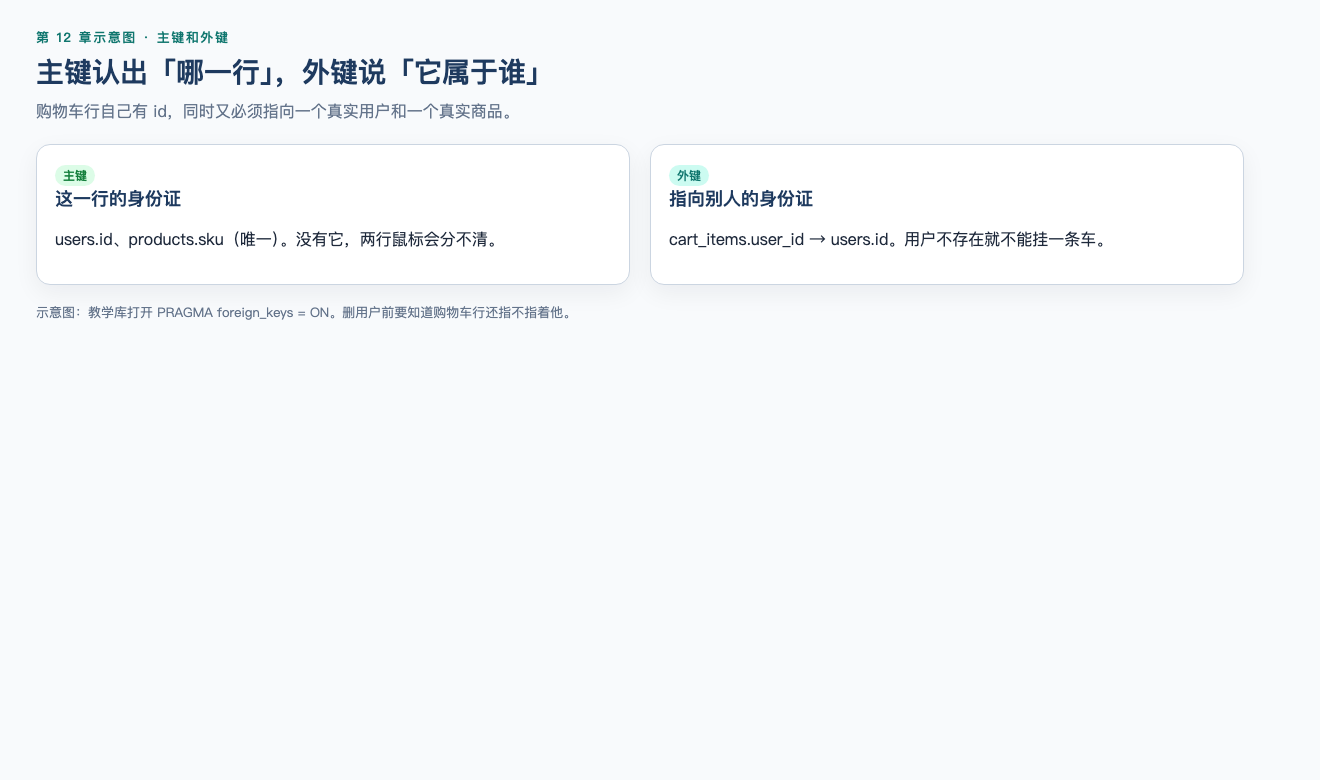
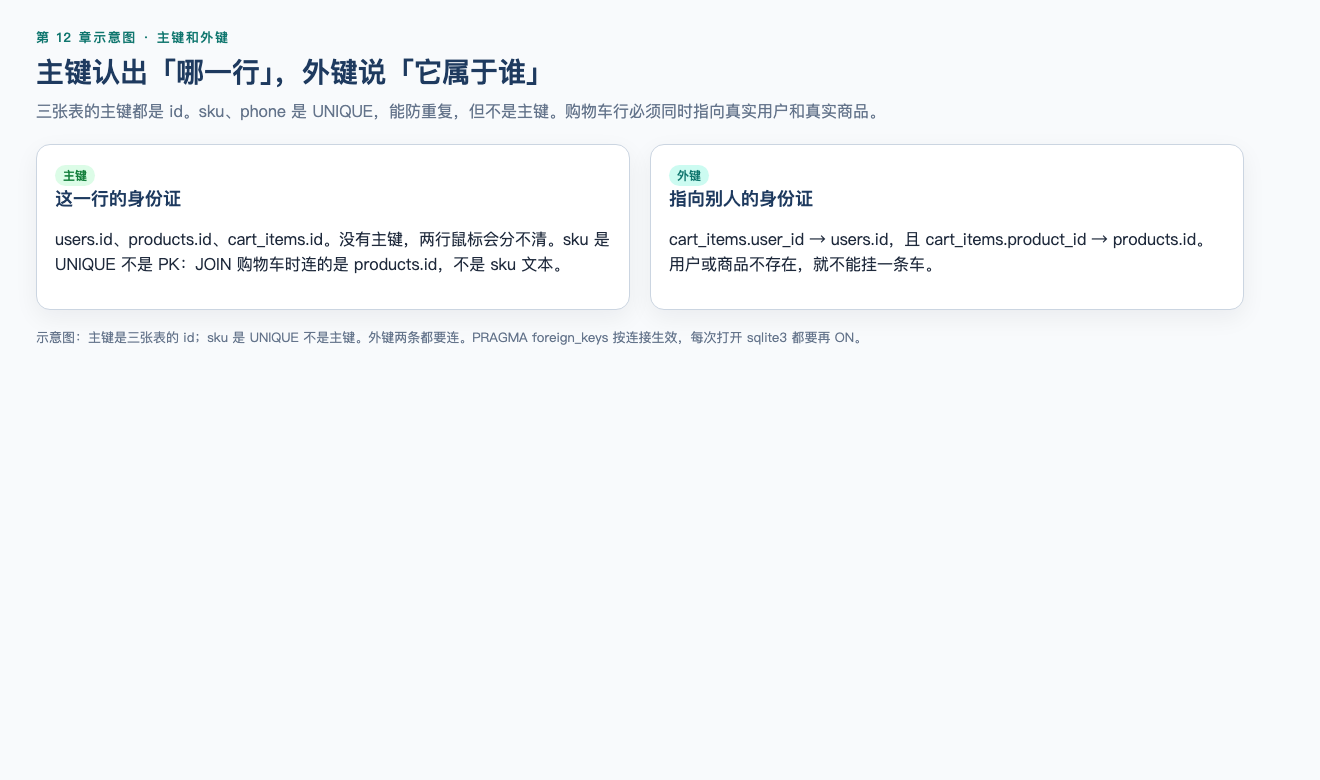
fix(ch12): teaching-db diagrams, sqlite3 entry, PRAGMA scope
PK is products.id not sku. INSERT headphone lives in a transaction.
foreign_keys is per connection and must be re-enabled.

Changed region(s): [[0.0311, 0.2769, 0.6523, 0.4615], [0.497, 0.2769, 0.9008, 0.3692], [0.0311, 0.1231, 0.6523, 0.1538]]

diff --git a/chapters/assets/diagrams/ch12-tables.html b/chapters/assets/diagrams/ch12-tables.html
@@ -4,44 +4,58 @@
   <meta charset="utf-8">
   <link rel="stylesheet" href="_theme.css">
   <style>
-    table { width:100%; border-collapse: collapse; font-size:14px; }
-    th { text-align:left; background:#e2e8f0; padding:6px 8px; }
-    td { border-top:1px solid var(--line); padding:6px 8px; font-family:ui-monospace,Menlo,monospace; }
+    table { width:100%; border-collapse: collapse; font-size:13px; }
+    th { text-align:left; background:#e2e8f0; padding:5px 7px; }
+    td { border-top:1px solid var(--line); padding:5px 7px; font-family:ui-monospace,Menlo,monospace; }
+    .null { color: var(--amber); font-weight: 600; }
+    .callout {
+      margin-top: 12px;
+      background: var(--amber-soft);
+      color: var(--amber);
+      border-radius: 10px;
+      padding: 10px 12px;
+      font-size: 14px;
+      line-height: 1.5;
+    }
   </style>
 </head>
 <body>
 <div class="page">
-  <p class="kicker">第 12 章示意图 · 页面上的一行，库里可能是三张表拼出来的</p>
+  <p class="kicker">第 12 章示意图 · 12.4 教学库（不是 MiniShop v1.0 种子）</p>
   <h1>购物车不是「一个格子」，是用户、商品、数量三张表的会合</h1>
-  <p class="lead">页面写「SKU-DEMO-001 qty=1」。要核对真伪，得把用户表和商品表 JOIN 起来。MiniShop 种子数据如下。</p>
+  <p class="lead">这是 12.4 教学库。页面写「SKU-DEMO-001 qty=1」，要核对真伪得把三张表 JOIN 起来。用户 3 是 13800138002、display_name 为 NULL，不是 admin。</p>
   <div class="row">
     <div class="col card">
-      <h2>users</h2>
+      <h2>users（3 行）</h2>
       <table>
-        <tr><th>id</th><th>phone</th></tr>
-        <tr><td>1</td><td>13800138000</td></tr>
-        <tr><td>2</td><td>13800138001</td></tr>
+        <tr><th>id</th><th>phone</th><th>display_name</th></tr>
+        <tr><td>1</td><td>13800138000</td><td>Tester A</td></tr>
+        <tr><td>2</td><td>13800138001</td><td>Tester B</td></tr>
+        <tr><td>3</td><td>13800138002</td><td class="null">NULL</td></tr>
       </table>
     </div>
     <div class="col card">
-      <h2>products</h2>
+      <h2>products（3 行，含耳机）</h2>
       <table>
-        <tr><th>id</th><th>sku</th><th>stock</th></tr>
-        <tr><td>1</td><td>SKU-DEMO-001</td><td>10</td></tr>
-        <tr><td>2</td><td>SKU-DEMO-002</td><td>5</td></tr>
+        <tr><th>id</th><th>sku</th><th>name</th><th>stock</th></tr>
+        <tr><td>1</td><td>SKU-DEMO-001</td><td>无线鼠标</td><td>10</td></tr>
+        <tr><td>2</td><td>SKU-DEMO-002</td><td>键盘</td><td>5</td></tr>
+        <tr><td>3</td><td>SKU-DEMO-003</td><td>耳机</td><td>3</td></tr>
       </table>
     </div>
     <div class="col card" style="border:2px solid var(--teal);">
-      <h2>cart_items</h2>
+      <h2>cart_items（3 行）</h2>
       <table>
-        <tr><th>user_id</th><th>product_id</th><th>qty</th></tr>
-        <tr><td>1</td><td>1</td><td>1</td></tr>
-        <tr><td>1</td><td>2</td><td>2</td></tr>
+        <tr><th>id</th><th>user_id</th><th>product_id</th><th>qty</th></tr>
+        <tr><td>1</td><td>1</td><td>1</td><td>1</td></tr>
+        <tr><td>2</td><td>1</td><td>2</td><td>2</td></tr>
+        <tr><td>3</td><td>2</td><td>1</td><td>1</td></tr>
       </table>
     </div>
   </div>
-  <p style="margin-top:16px;">JOIN 之后 Tester A 应看到：鼠标 qty 1 / stock 10，键盘 qty 2 / stock 5。页面显示 11 而这里仍是 1，问题在展示；这里变成 11，才是超卖。</p>
-  <p class="caption">示意图：主键认出一行，外键把行连起来。改数前先 SELECT，只在授权教学库操作。</p>
+  <p style="margin-top:14px;font-size:15px;line-height:1.55">JOIN 之后 Tester A：鼠标 qty 1 / stock 10，键盘 qty 2 / stock 5。耳机无人加购，LEFT JOIN 时 qty 为空。COUNT(*) 用户 = 3，COUNT(display_name) = 2。</p>
+  <p class="callout">对照：MiniShop v1.0 用户 3 是 13800138099 Admin。禁止拿 002 当管理员，也禁止拿本图对 seed-join.txt 做 COUNT。</p>
+  <p class="caption">示意图：12.4 教学库全表。页面上的一行来自用户、商品、购物车三张表会合，不是 MiniShop v1.0 种子。</p>
 </div>
 </body>
 </html>

diff --git a/chapters/assets/diagrams/ch12-pk-fk.html b/chapters/assets/diagrams/ch12-pk-fk.html
@@ -3,7 +3,18 @@
 <body><div class="page">
 <p class="kicker">第 12 章示意图 · 主键和外键</p>
 <h1>主键认出「哪一行」，外键说「它属于谁」</h1>
-<p class="lead">购物车行自己有 id，同时又必须指向一个真实用户和一个真实商品。</p>
-<div class="row"><div class="col card"><span class="tag tag-ok">主键</span><h2>这一行的身份证</h2><p style="font-size:16px;line-height:1.55">users.id、products.sku（唯一）。没有它，两行鼠标会分不清。</p></div><div class="col card"><span class="tag tag-info">外键</span><h2>指向别人的身份证</h2><p style="font-size:16px;line-height:1.55">cart_items.user_id → users.id。用户不存在就不能挂一条车。</p></div></div>
-<p class="caption">示意图：教学库打开 PRAGMA foreign_keys = ON。删用户前要知道购物车行还指不指着他。</p>
+<p class="lead">三张表的主键都是 id。sku、phone 是 UNIQUE，能防重复，但不是主键。购物车行必须同时指向真实用户和真实商品。</p>
+<div class="row">
+  <div class="col card">
+    <span class="tag tag-ok">主键</span>
+    <h2>这一行的身份证</h2>
+    <p style="font-size:16px;line-height:1.55">users.id、products.id、cart_items.id。没有主键，两行鼠标会分不清。sku 是 UNIQUE 不是 PK：JOIN 购物车时连的是 products.id，不是 sku 文本。</p>
+  </div>
+  <div class="col card">
+    <span class="tag tag-info">外键</span>
+    <h2>指向别人的身份证</h2>
+    <p style="font-size:16px;line-height:1.55">cart_items.user_id → users.id，且 cart_items.product_id → products.id。用户或商品不存在，就不能挂一条车。</p>
+  </div>
+</div>
+<p class="caption">示意图：主键是三张表的 id；sku 是 UNIQUE 不是主键。外键两条都要连。PRAGMA foreign_keys 按连接生效，每次打开 sqlite3 都要再 ON。</p>
 </div></body></html>

diff --git a/chapters/12a-sql-query.md b/chapters/12a-sql-query.md
@@ -73,7 +73,7 @@ products.id <----- cart_items.product_id
 
 没有外键时，库里可能出现 `user_id = 99` 这种幽灵用户。有外键且引擎真正启用约束时，这样的插入应失败。
 
-SQLite 默认**不强制**外键，需要 `PRAGMA foreign_keys = ON;`。MySQL 需使用支持外键的引擎（常见 InnoDB）。PostgreSQL 默认强制外键。测试前要问清：约束开了没有，不要假设“有外键列就一定插不进去”。
+SQLite 默认**不强制**外键，需要 `PRAGMA foreign_keys = ON;`。这个开关按**当前连接**生效，**不会写入** sqlite 文件：关掉终端再打开，又变回关闭，每次用 `sqlite3` 打开教学库都要再执行一次。MySQL 需使用支持外键的引擎（常见 InnoDB）。PostgreSQL 默认强制外键。测试前要问清：约束开了没有，不要假设“有外键列就一定插不进去”。
 
 ---
 
@@ -148,6 +148,18 @@ INSERT INTO cart_items(id, user_id, product_id, qty) VALUES
 
 MySQL 建表常用 `INT AUTO_INCREMENT`，PostgreSQL 常用 `GENERATED … AS IDENTITY` 或 `SERIAL`。查询部分下面通用。
 
+本机跟做（独立教学文件，不要打开 MiniShop 主库）：
+
+```bash
+sqlite3 ~/minishop-sql-lab.sqlite
+```
+
+提示符变成 `sqlite>` 后，把本节上面的 `PRAGMA`～`INSERT` 整段贴进去。`.tables` 应看到 `users` `products` `cart_items`。
+
+不要对 `project/minishop/data/minishop.sqlite` 跑这段 INSERT：那套表有 `password_hash`、`role`，用户 3 是 `13800138099`。后面的 `COUNT(*)` / `IS NULL` 只对这份教学库成立。
+
+`PRAGMA foreign_keys = ON` 按连接生效，不会写入 sqlite 文件。下次再打开同一个 `~/minishop-sql-lab.sqlite`，仍要先执行这一句，再测外键。
+
 ---
 
 ## 12.5 CRUD ⭐⭐⭐
@@ -164,6 +176,14 @@ MySQL 建表常用 `INT AUTO_INCREMENT`，PostgreSQL 常用 `GENERATED … AS ID
 ---
 
 ## 12.6 `SELECT` ⭐⭐⭐
+
+下面语句在 12.4 建好的教学库里执行。若还没打开：
+
+```bash
+sqlite3 ~/minishop-sql-lab.sqlite
+```
+
+每次重开都要再执行 `PRAGMA foreign_keys = ON;`（开关不进文件，只对当前这次连接有效）。
 
 ```sql
 SELECT id, phone, display_name
@@ -365,7 +385,7 @@ SELECT id, phone FROM users WHERE display_name IS NULL;
 
 ## MiniShop 工作实战（上）
 
-只读查询 MiniShop v1.0 种子库（授权环境）。最小动作：打开 `project/minishop/docs/sql-check.md` 里的 JOIN，对照 `project/minishop/evidence/sql/seed-join.txt` 第一节。验收：Tester A 两行——鼠标 `SKU-DEMO-001` qty 1 stock 10、键盘 `SKU-DEMO-002` qty 2 stock 5。不要把 12.4 教学库的用户 3（`13800138002` / `NULL`）和这份 v1.0 证据对答案。写操作放到 12B。
+只读查询 MiniShop v1.0 种子库（授权环境）。最小动作：打开 `project/minishop/docs/sql-check.md` 里的 JOIN，对照 `project/minishop/evidence/sql/seed-join.txt` 第一节。验收：Tester A 两行——鼠标 `SKU-DEMO-001` qty 1 stock 10、键盘 `SKU-DEMO-002` qty 2 stock 5。不要把 12.4 教学库的用户 3（`13800138002` / `NULL`）和这份 v1.0 证据对答案；也不要用 `sqlite3` 打开 `project/minishop/data/minishop.sqlite` 当 12.4 教学库。动手 SELECT 用 `~/minishop-sql-lab.sqlite`。书面产出可记在 `exercises/chapter-12a-join.md`。写操作放到 12B。
 
 ## 常见错误
 

diff --git a/chapters/12b-sql-write-and-minishop.md b/chapters/12b-sql-write-and-minishop.md
@@ -27,20 +27,39 @@ INSERT/UPDATE/DELETE 会改数据。必须先 SELECT 验证范围，只在授权
 
 ## 12.12 `INSERT` ⭐⭐⭐
 
-只在授权教学库执行。插入前先 `SELECT` 该 `user_id` / `product_id` 是否已有行，避免盲目再插一条。
+只在授权教学库执行。插入前先 `SELECT` 该 `user_id` / `product_id` 是否已有行，避免盲目再插一条。每次打开 `sqlite3` 都要先 `PRAGMA foreign_keys = ON;`：这个开关按连接生效，不写入文件，重开终端默认又是关的。
 
 ```sql
+PRAGMA foreign_keys = ON;
+
+BEGIN;
+
 SELECT id, user_id, product_id, qty
 FROM cart_items
 WHERE user_id = 1 AND product_id = 3;
 
 INSERT INTO cart_items (user_id, product_id, qty)
 VALUES (1, 3, 1);
+
+SELECT id, user_id, product_id, qty
+FROM cart_items
+WHERE user_id = 1 AND product_id = 3;
+
+ROLLBACK;
 ```
 
-这会给 Tester A 加一行耳机。外键开启时，`user_id = 99` 应失败。审查中在 `PRAGMA foreign_keys = ON` 下插入不存在的用户，SQLite 报 `FOREIGN KEY constraint failed`。
+这会在事务里给 Tester A 加一行耳机；`ROLLBACK` 后库里仍没有这行。sqlite3 默认自动提交，只抄 `INSERT` 会永久留下耳机，后面 LEFT JOIN 里 `SKU-DEMO-003` 的 qty 就不再为空。若已经误插入，用主键 `DELETE` 清掉自己的行。
 
-插入后立刻 `SELECT` 核对，不要假设成功。练习插入应放在事务里回滚，或随后用主键 `DELETE` 清掉自己的行，避免污染别人的用例——第 5 章的数据独立性在库里同样适用。
+外键是否拦住幽灵用户，只对**当前这次连接**成立。审查中同连接先 `ON` 再插入不存在的用户，SQLite 报 `FOREIGN KEY constraint failed`：
+
+```sql
+PRAGMA foreign_keys = ON;
+INSERT INTO cart_items (user_id, product_id, qty)
+VALUES (99, 1, 1);
+-- 期望：FOREIGN KEY constraint failed
+```
+
+若没报错、行插进去了，说明这次连接没打开外键。立刻 `DELETE FROM cart_items WHERE user_id = 99;`，再执行 `PRAGMA foreign_keys = ON;` 后重试。插入后立刻 `SELECT` 核对，不要假设成功。
 
 ---
 
@@ -212,7 +231,7 @@ exercises/chapter-12-minishop-sql.md
 sqlite3 ~/minishop-sql-lab.sqlite
 ```
 
-进入后执行本章 12.4 的建表与插入，再完成：
+进入后先执行 `PRAGMA foreign_keys = ON;`（按连接生效，不写入文件；昨天建好的库今天重开仍是关闭）。若表还不存在，再执行 12.4 的建表与插入；表已在就不要重复 `CREATE`。然后完成：
 
 1. 按手机号查询用户；
 2. 一条 `JOIN`，列出该用户购物车的 sku、qty、stock；
